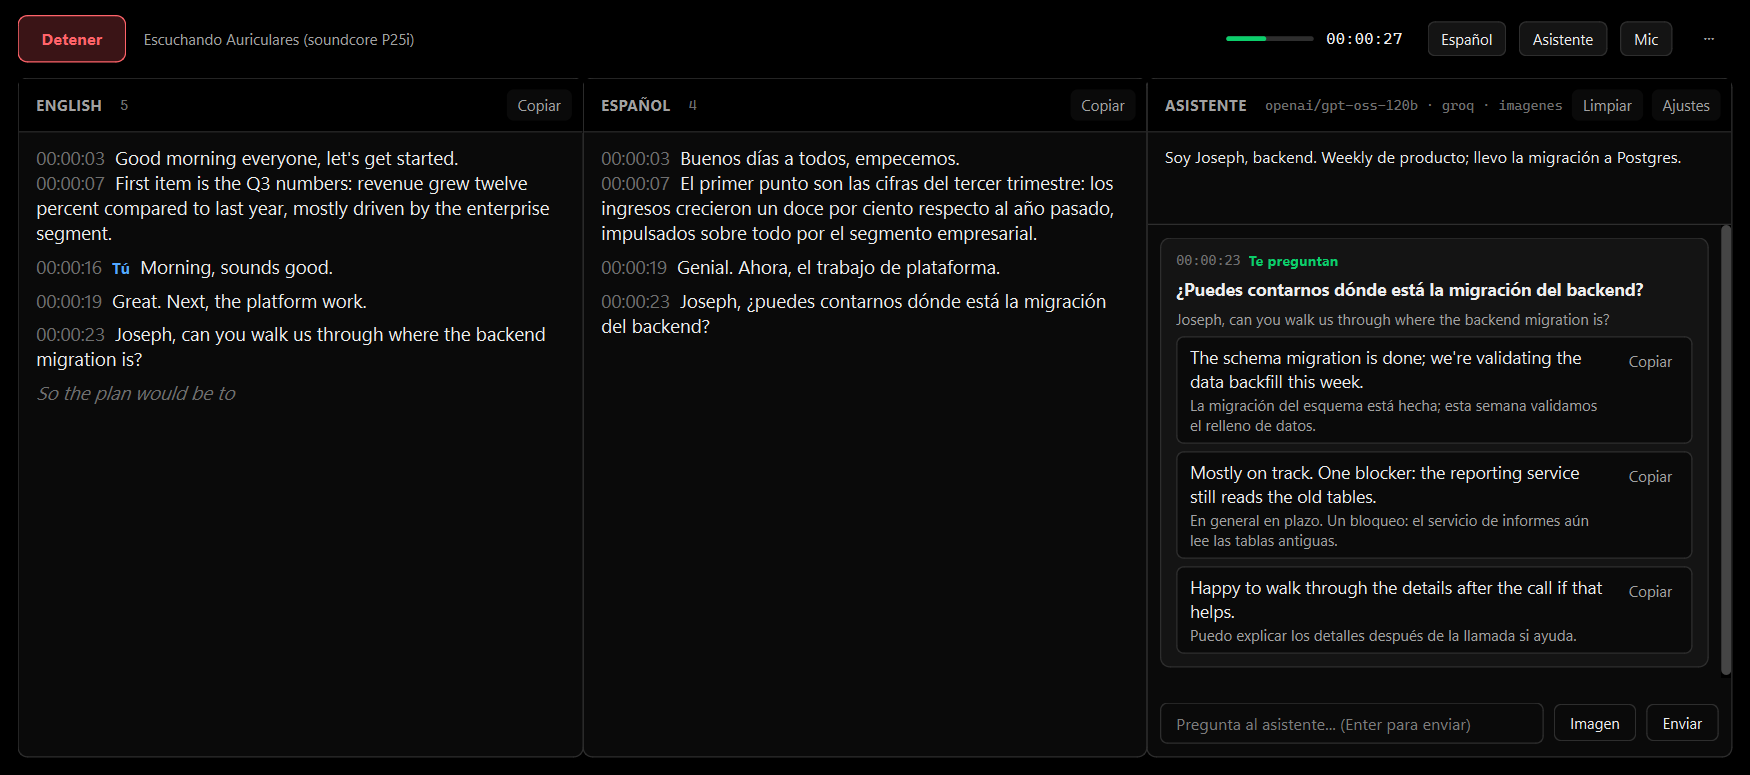
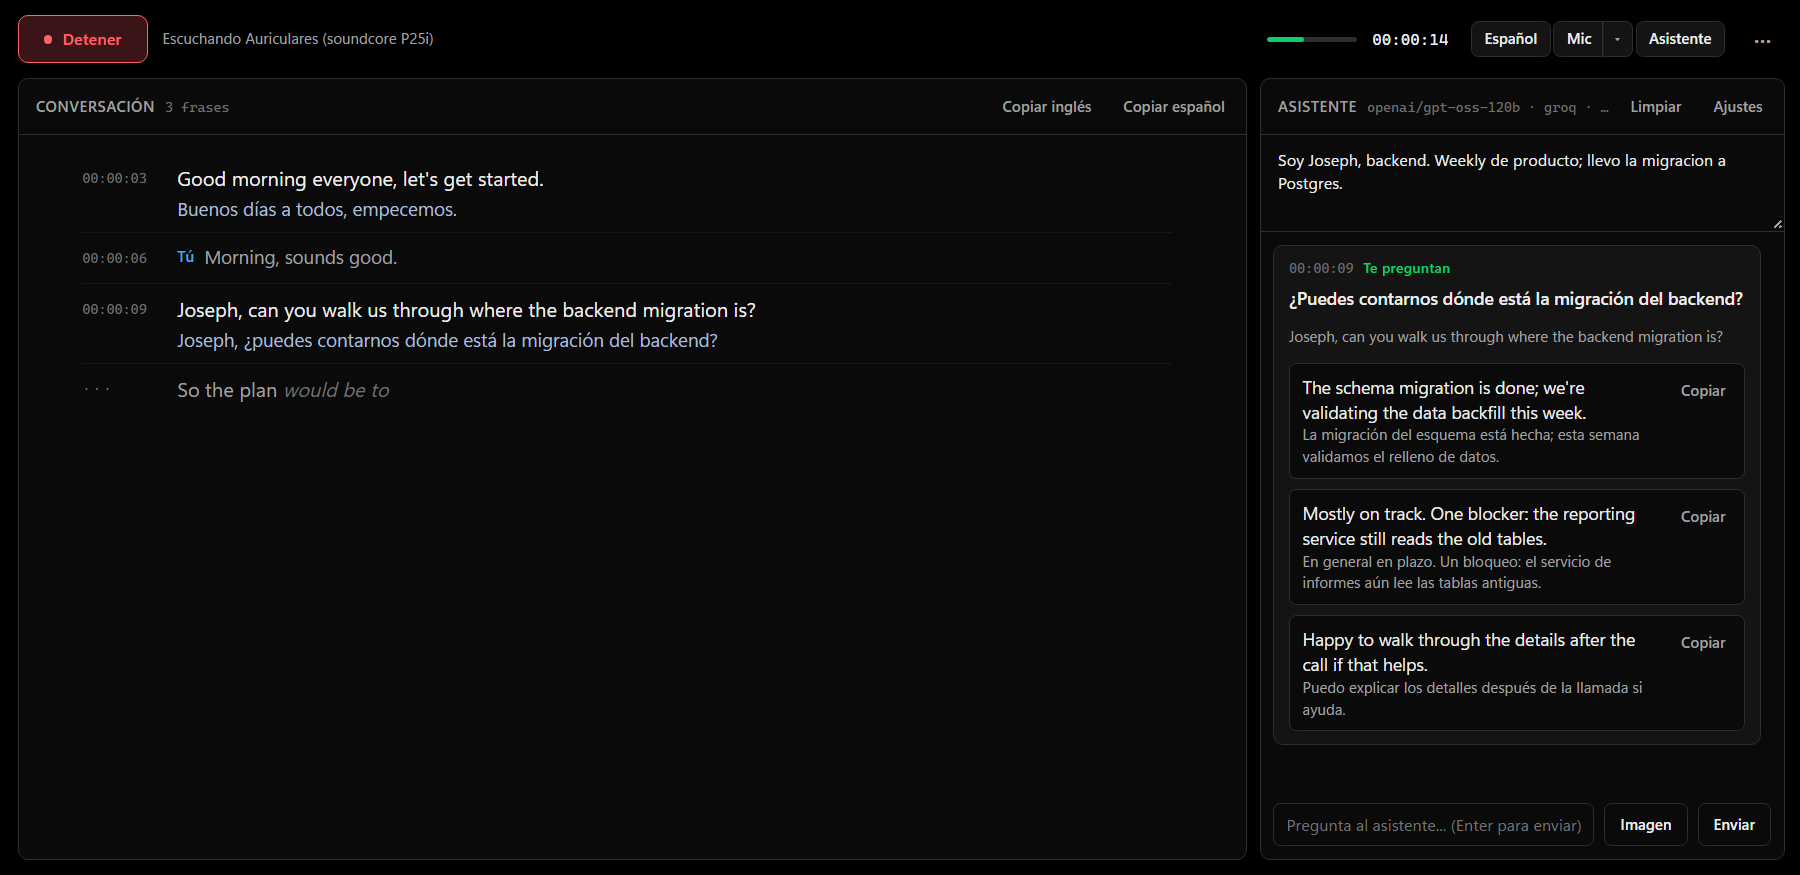
Release 0.2.0 and show the new window in the README
The screenshot is the real page (same HTML and CSS WebView2 loads) rendered
with a demo meeting in headless Edge.

diff --git a/README.md b/README.md
@@ -4,7 +4,7 @@
 
 **Follow an English meeting in real time — transcript, Spanish translation and a copilot that drafts your answers.**
 
-[![Download](https://img.shields.io/badge/download-v0.1.0-ededed?style=flat-square)](https://github.com/Juyens/LiveCaptions/releases/latest)
+[![Download](https://img.shields.io/badge/download-v0.2.0-ededed?style=flat-square)](https://github.com/Juyens/LiveCaptions/releases/latest)
 [![Python](https://img.shields.io/badge/python-3.12-3776ab?style=flat-square)](https://www.python.org/)
 [![pywebview](https://img.shields.io/badge/pywebview-6.2-ededed?style=flat-square)](https://pywebview.flowrl.com/)
 [![CUDA](https://img.shields.io/badge/CUDA-12-76b900?style=flat-square)](https://developer.nvidia.com/cuda-toolkit)
